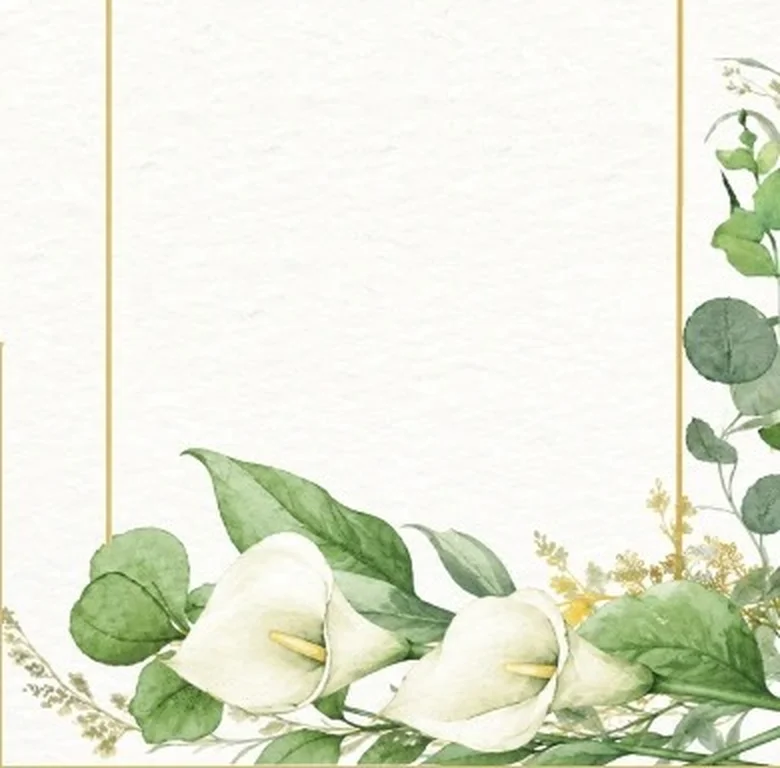
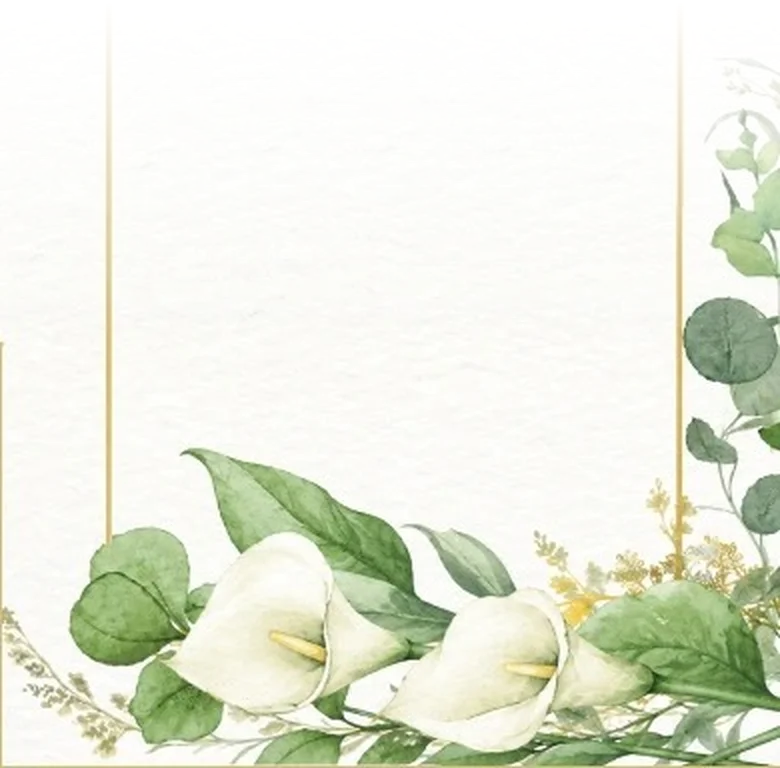
Restore proven hero background crop, drop it for landscape, re-add feathering
Reverts the hero top/middle/bottom slices to the original crop bounds
that worked well in portrait (the shallower re-crop introduced a
repeating leaf artifact in the middle tile and a line-alignment
mismatch). Landscape/desktop no longer attempt to reuse this portrait
illustration at all -- background-image: none there, same plain
gradient as before this feature existed, since no amount of resizing
made a portrait arch read well in a wide viewport.

Re-applied the alpha feather on the top/bottom slices' inner edges
(same technique as the other sections' corner decorations) so the
seam into the middle strip dissolves instead of cutting hard -- this
also fixes tablets (e.g. iPad Mini in portrait), where the previous
opaque crop let the top slice fully obscure much of the bottom slice
where they overlap, cropping the calla lilies off with a hard edge.

Changed region(s): [[0.8615, 0.0, 1.0, 0.375], [0.1231, 0.0, 0.1538, 0.3438]]

diff --git a/src/css/hero.css b/src/css/hero.css
@@ -89,17 +89,11 @@
 
 @media (orientation: landscape) {
   .section--hero::before {
-    background-image: url('../assets/images/hero-bg-full.webp');
-    background-repeat: no-repeat;
-    background-position: center;
-    background-size: contain;
+    background-image: none;
   }
+}
 
-  .hero__content {
-    max-width: 40vh;
-    margin-inline: auto;
-  }
-
+@media (orientation: landscape) and (max-height: 500px) {
   .hero__ornament {
     width: 70px;
     height: 24px;
@@ -111,18 +105,17 @@
   }
 
   .hero__names {
-    font-size: clamp(1.3rem, 7.5vh, 2.6rem);
+    font-size: clamp(1.6rem, 9vh, 2.6rem);
     line-height: 1.05;
   }
 
   .hero__subtitle {
-    font-size: clamp(0.55rem, 2vh, 0.85rem);
-    letter-spacing: 0.08em;
+    font-size: clamp(0.7rem, 3vh, 1rem);
     margin-top: var(--space-xs);
   }
 
   .hero__date {
-    font-size: clamp(0.7rem, 2.2vh, 1.05rem);
+    font-size: clamp(0.8rem, 3vh, 1.1rem);
     margin-top: 2px;
   }
 }
